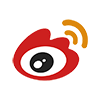
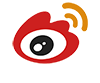
commit v1.2

diff --git a/index.html b/index.html
@@ -12,7 +12,9 @@
 </head>
 <body>
 <div id="contact_us" class="contact-us contact-font-default">
-    <a href="http://www.weibo.com/u/5324802169" target="_blank"><img src="img/sina-weibo.png"> 联系我们</a>
+    <a href="http://www.weibo.com/u/5324802169" target="_blank">
+        <img src="img/sina-weibo.png"> <span> 联系我们</span>
+    </a>
 </div>
 <div id="fullpage">
     <div class="section" id="section0">
@@ -34,9 +36,9 @@
                         </a>
                     </div>
                 </div>
-                <div class="row">
+                <!--<div class="row">
                     <div class="col-md-3 col-md-offset-8">
-                        <div class="col-md-5 col-md-offset-1">
+                        <div class="col-md-6">
                             <a href="javascript:void(0)" title="下载苹果应用">
                                 <img src="img/ios-white.png" class="app-ios-white">
                             </a>
@@ -47,6 +49,18 @@
                             </a>
                         </div>
                     </div>
+                </div>-->
+            </div>
+            <div class="col-md-2 app-download">
+                <div class="col-md-6">
+                    <a href="javascript:void(0)" title="下载苹果应用">
+                        <img src="img/ios-white.png" class="app-ios-white">
+                    </a>
+                </div>
+                <div class='col-md-6'>
+                    <a href="javascript:void(0)" title="下载安卓应用">
+                        <img src="img/android-white.png" class="app-android-white">
+                    </a>
                 </div>
             </div>
         </div>

diff --git a/css/index.css b/css/index.css
@@ -61,13 +61,16 @@ footer p {
 div.popover-content a {
 	display: block;
 }
+.app-download {
+	margin-top: 110px;
+	margin-left: -80px;
+}
 i.app-ios{
 	width: 31px;
 	height: 39px;
 	display: block;
 	background: url("../img/ios.png") no-repeat center center;
 }
-
 i.app-ios-white{
 	width: 31px;
 	height: 39px;
@@ -124,7 +127,7 @@ i.app-android-white{
 	text-decoration:none;
 }
 .contact-us a img{
-	width: 32px;
+	width: 39px;
 	height: 32px;
 }
 .contact-us.contact-font-default a {
@@ -145,9 +148,12 @@ i.app-android-white{
 #download_div i.app-ios,#download_div i.app-android {
 	margin-top: 10px;
 }
+.popover-app-download{
+	margin-top: 85px;
+}
 i.app-qr {
-	width: 62px;
-	height: 62px;
+	width: 134px;
+	height: 134px;
 	display: block;
 	-webkit-box-shadow: 0 5px 15px rgba(0,0,0,.5);
 	box-shadow: 0 5px 15px rgba(0,0,0,.5);

diff --git a/js/index.js b/js/index.js
@@ -49,14 +49,14 @@ Index.registerDownload = function(){
 		 });
 		*/
 		var downloadParentDiv = $("#download_parent_div");
-		var html = "<div id=\"download_div\" tabindex=\"55\" class=\"col-md-6 col-md-offset-3\">" +
+		var html = "<div id=\"download_div\" tabindex=\"55\" class=\"col-md-8 col-md-offset-2\">" +
 			"    <div class=\"col-md-6\">" +
 			"        <a href=\"\"><i class=\"app-qr\"></i></a>" +
 			"    </div>" +
-			"    <div class=\"col-md-3\">" +
+			"    <div class=\"col-md-3 popover-app-download\">" +
 			"        <a href=\"\"><i class=\"app-ios\"></i></a>" +
 			"    </div>" +
-			"    <div class=\"col-md-3\">" +
+			"    <div class=\"col-md-3 popover-app-download\">" +
 			"        <a href=\"\"><i class=\"app-android\"></i></a>" +
 			"    </div>" +
 			"</div>";

diff --git a/vendors/gallery/js/jquery.gallery.js b/vendors/gallery/js/jquery.gallery.js
@@ -447,8 +447,12 @@
 			//fade in or out
 			//console.log(this.$currentItm.find("div").html());
 			this.$currentItm.find("div").fadeIn(3600);
-			this.$leftItm.find("div").fadeOut(800);
-			this.$rightItm.find("div").fadeOut(800);
+			if(undefined != this.$leftItm.find("div").attr("style")){
+				this.$leftItm.find("div").removeAttr("style");
+			}
+			if(undefined != this.$rightItm.find("div").attr("style")){
+				this.$rightItm.find("div").removeAttr("style");
+			}
 		},
 		_startSlideshow		: function() {
 		
